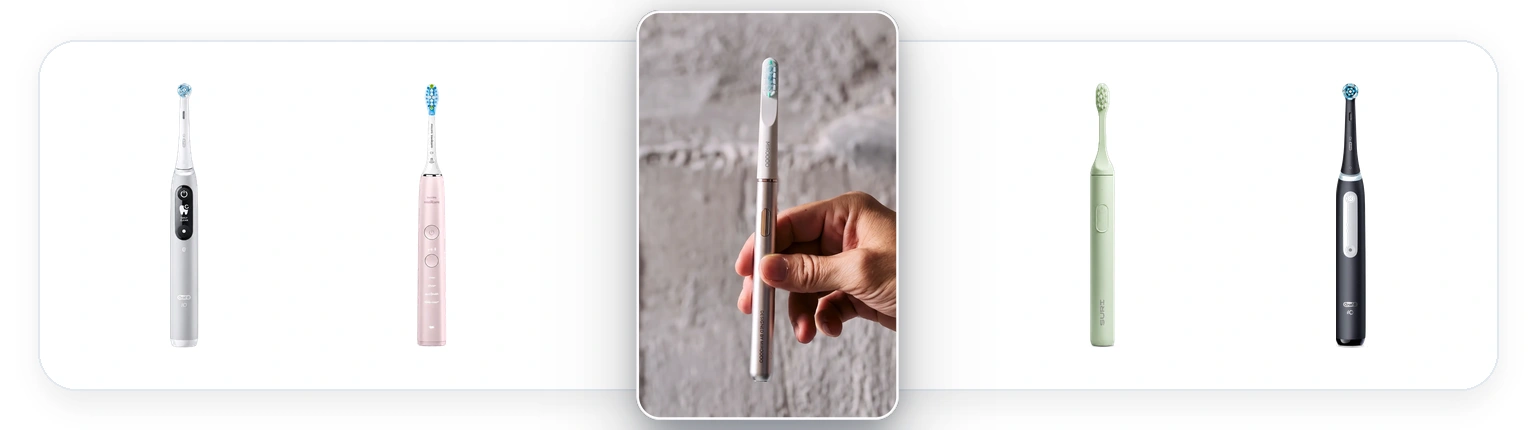
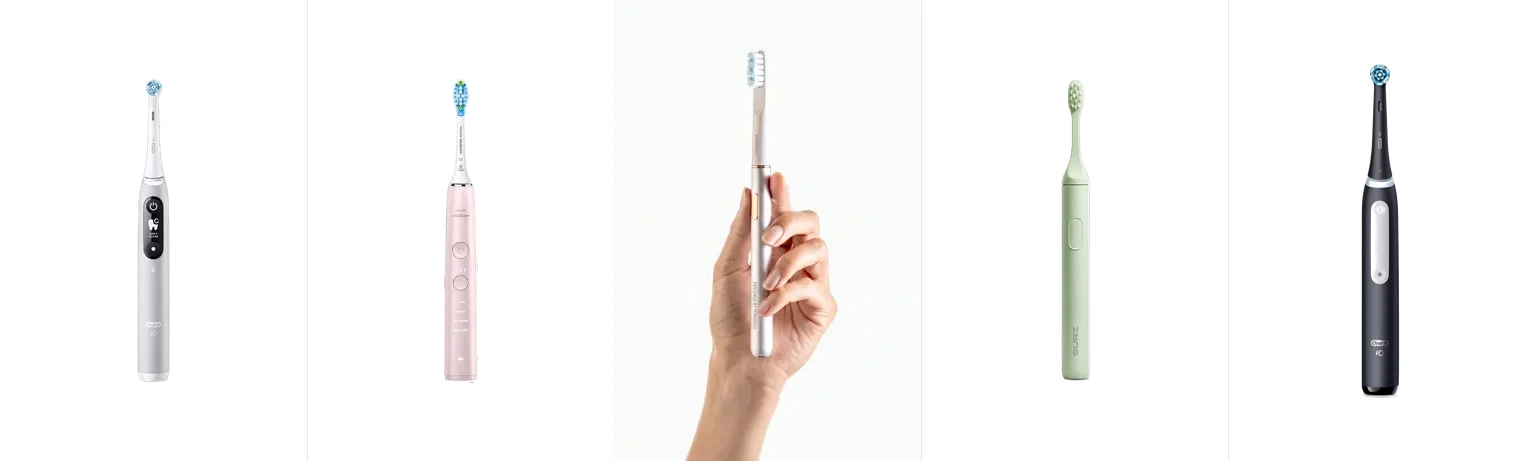
fix: compact desktop sticky box, remove mobile sticky button background, and implement 5-panel flat toothbrush collage

diff --git a/src/components/LuxuryToothbrushLandingPage.tsx b/src/components/LuxuryToothbrushLandingPage.tsx
@@ -296,7 +296,7 @@ export function LuxuryToothbrushLandingPage({ guide }: LuxuryToothbrushLandingPa
       {/* 4. HERO BANNER IMAGE, DR. JULIAN VANCE PROFILE & HANDS-ON VIDEO */}
       <section className="max-w-5xl mx-auto px-4 sm:px-6 mt-8 space-y-8 relative z-20">
         {/* Main Top 5 Comparison Hero Graphic */}
-        <div className="relative overflow-hidden rounded-2xl border border-[#e7e7e7] shadow-sm aspect-[1536/430] bg-[#fafafa]">
+        <div className="relative overflow-hidden rounded-2xl border border-[#e7e7e7] shadow-sm aspect-[1536/461] bg-[#fafafa]">
           <img
             src="/img/toothbrushes/top-5-electric-toothbrushes-uk.webp"
             alt="Top 5 Best Electric Toothbrushes UK 2026 Comparison"
@@ -1085,20 +1085,20 @@ export function LuxuryToothbrushLandingPage({ guide }: LuxuryToothbrushLandingPa
 function StickyWinnerBox({ winnerProduct }: { winnerProduct: ToothbrushProduct }) {
   return (
     <>
-      {/* 1. DESKTOP STICKY BOX (Bottom-Right) */}
+      {/* 1. DESKTOP STICKY BOX (Compact, Right-Gutter, Never Overlaps Content) */}
       <aside
         aria-label="Winner recommendation sticky card"
-        className="hidden md:flex flex-col items-center fixed bottom-8 right-6 z-50 w-[215px] bg-[#181818] border border-[#2e2e2e] rounded-2xl p-3 shadow-2xl transition-all duration-300 hover:border-[#3e3e3e]"
+        className="hidden md:flex flex-col items-center fixed bottom-6 right-3 xl:right-6 z-50 w-[136px] bg-[#181818] border border-[#2e2e2e] rounded-xl p-2 shadow-2xl transition-all duration-300 hover:border-[#3e3e3e]"
       >
         {/* Top Badge: #1 WINNER */}
-        <div className="mb-2">
-          <span className="inline-flex items-center gap-1 px-2.5 py-0.5 rounded-full bg-[#f5f3ff] text-[#7e22ce] border border-[#d1a3ff] text-[10px] font-openSans font-extrabold uppercase tracking-wider shadow-xs">
+        <div className="mb-1.5">
+          <span className="inline-flex items-center gap-1 px-2 py-0.5 rounded-full bg-[#f5f3ff] text-[#7e22ce] border border-[#d1a3ff] text-[9px] font-openSans font-extrabold uppercase tracking-wider shadow-xs">
             #1 WINNER
           </span>
         </div>
 
         {/* Video: 360 View */}
-        <div className="relative w-full aspect-square rounded-xl overflow-hidden bg-black/80 border border-[#2e2e2e]">
+        <div className="relative w-full aspect-square rounded-lg overflow-hidden bg-black/80 border border-[#2e2e2e]">
           <video
             autoPlay
             loop
@@ -1114,8 +1114,8 @@ function StickyWinnerBox({ winnerProduct }: { winnerProduct: ToothbrushProduct }
         </div>
 
         {/* Title: #1 Product Name in Bold Uppercase */}
-        <div className="mt-2.5 mb-2.5 text-center px-1">
-          <h4 className="font-lato font-extrabold text-white text-[13px] tracking-wider uppercase leading-snug">
+        <div className="mt-1.5 mb-1.5 text-center px-0.5">
+          <h4 className="font-lato font-extrabold text-white text-[11px] tracking-wider uppercase leading-tight">
             MIROOOO BRUSH X
           </h4>
         </div>
@@ -1125,23 +1125,25 @@ function StickyWinnerBox({ winnerProduct }: { winnerProduct: ToothbrushProduct }
           href={winnerProduct.link}
           target="_blank"
           rel="noopener noreferrer"
-          className="w-full py-2.5 px-3 rounded-xl bg-white hover:bg-[#b265ff] text-[#181818] hover:text-white font-openSans font-extrabold text-xs uppercase tracking-wider flex items-center justify-center gap-1.5 transition-all duration-300 shadow-md group"
+          className="w-full py-1.5 px-2 rounded-lg bg-white hover:bg-[#b265ff] text-[#181818] hover:text-white font-openSans font-extrabold text-[10px] uppercase tracking-wider flex items-center justify-center gap-1 transition-all duration-200 shadow-md group"
         >
           <span>VISIT WINNING SITE</span>
-          <ExternalLink size={13} className="shrink-0 group-hover:translate-x-0.5 transition-transform" />
+          <ExternalLink size={11} className="shrink-0 group-hover:translate-x-0.5 transition-transform" />
         </a>
       </aside>
 
-      {/* 2. MOBILE STICKY BAR (Bottom Full-Width Bar with ONLY the Button) */}
-      <div className="fixed bottom-0 left-0 right-0 z-50 md:hidden p-3 bg-white/95 backdrop-blur-md border-t border-[#e7e7e7] shadow-[0_-4px_25px_rgba(0,0,0,0.12)]">
+      {/* 2. MOBILE FLOATING STICKY BUTTON (No background bar - button only) */}
+      <div className="fixed bottom-4 left-4 right-4 z-50 md:hidden pointer-events-none">
         <a
           href={winnerProduct.link}
           target="_blank"
           rel="noopener noreferrer"
-          className="w-full py-3.5 px-5 rounded-xl bg-[#181818] hover:bg-[#b265ff] text-white font-openSans font-extrabold text-sm uppercase tracking-wider flex items-center justify-center gap-2 transition-all duration-200 shadow-md active:scale-[0.99]"
+          className="pointer-events-auto block w-full py-3 px-4 rounded-xl bg-[#181818] hover:bg-[#b265ff] text-white font-openSans font-extrabold text-sm uppercase tracking-wider text-center shadow-2xl transition-colors cursor-pointer border border-neutral-800 active:scale-[0.99]"
         >
-          <span>Visit Winning Site</span>
-          <ExternalLink size={16} />
+          <span className="inline-flex items-center justify-center gap-2">
+            <span>Visit Winning Site</span>
+            <ExternalLink size={15} className="shrink-0" />
+          </span>
         </a>
       </div>
     </>
